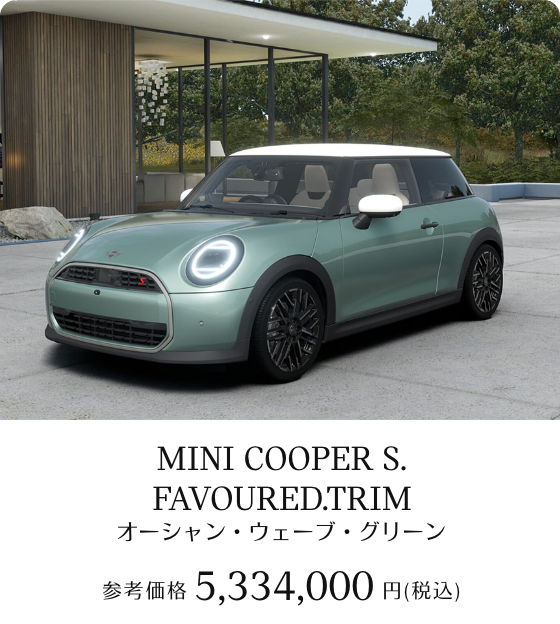
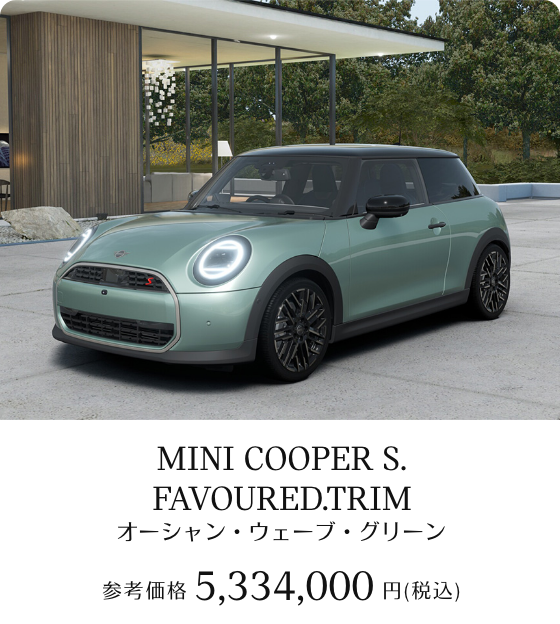
no message

Changed region(s): [[0.0, 0.0, 1.0, 0.6394]]

diff --git a/260527MINI/static/css/style.css b/260527MINI/static/css/style.css
@@ -497,16 +497,19 @@ video {
 .bg-fix .present {
   position: absolute;
   top: 0;
+  left: 0;
+  width: 100%;
   z-index: 2;
 }
 
 .bg-fix .area {
+  position: relative;
   max-width: 500px;
   margin: auto;
   padding: 50px;
   background-color: #fff;
   text-align: center;
-  position: relative;
+  z-index: 5;
 }
 .bg-fix .area .img01{
   max-width: 400px;
@@ -518,15 +521,18 @@ video {
   margin-bottom: 20px;
 }
 .bg-fix .area .tit{
-  position: absolute;
-  top: 90px;
-  left: 50%;
-  transform: translateX(-50%);
+  position: relative;
+  top: auto;
+  left: auto;
+  transform: none;
+
+  margin-bottom: 30px;
 }
 .bg-fix .area .txt{
   font-size: 14px;
   line-height: 1.8;
-  margin: 35% auto 30px;
+  margin-bottom: 30px;
+
 }
 .bg-fix .area .mini{
   margin-bottom: 30px;

diff --git a/260527MINI/index.html b/260527MINI/index.html
@@ -91,7 +91,7 @@ height="0" width="0" style="display:none;visibility:hidden"></iframe></noscript>
             </a>
           </div>
           <div class="image">
-            <a href="https://www.mini.jp/ja-jp/sl/vehiclefinder/details/019c9e22-37f7-73ea-94ec-c7c7fa4c986b?buno=40053&filters=%257B%2522MARKETING_SERIES%2522%253A%255B%2522MINI%2520JOHN%2520COOPER%2520WORKS%2522%255D%252C%2522MARKETING_MODEL_RANGE%2522%253A%255B%2522MINI_32GD%2522%255D%252C%2522ENGINE%2522%253A%255B%2522COOPERS%2522%252C%2522JCW%2522%255D%252C%2522UPHOLSTERY_COLOR%2522%253A%255B%2522BLACK%2522%255D%252C%2522IS_INSTALLMENT%2522%253Afalse%257D&sorting=PRODUCTION_DATE_ASC&modelCode=AJ0A&paint=P0C6P&fabric=FTDJ3&modelRangeCode=F66&options=S01DX%2CS03A3%2CS05A4%2CS0ZF6%2CS05DN%2CS06NX%2CS07ED%2CS05AC%2CS0876%2CS08KL%2CS0430%2CS0431%2CS0992%2CS07KQ%2CS09T9%2CS02VC%2CS08R9%2CS04VF%2CS0302%2CS04NR%2CS0548%2CS04FN%2CS0420%2CS0223%2CS0807%2CS0852%2CS01KP%2CS0459%2CS06AD%2CS06AE%2CS07CG%2CS06AF%2CS0ZU6%2CS0494%2CS0451%2CS01CB%2CS06UQ%2CS0212%2CS04AA%2CS02XK%2CS05AS%2CS06PA%2CS05AT%2CS08TF%2CS08SX%2CS02TC%2CS0248%2CS0688%2CS0449%2CS0845%2CS0925%2CS0322" target="_blank">
+            <a href="https://www.mini.jp/ja-jp/sl/vehiclefinder/details/019c9e22-23c9-7659-a120-4843841d644d?buno=40053&filters=%257B%2522MARKETING_MODEL_RANGE%2522%253A%255B%2522MINI_32GD%2522%255D%252C%2522IS_INSTALLMENT%2522%253Afalse%257D&sorting=PRODUCTION_DATE_DESC&modelCode=AJ0A&paint=P0C6P&fabric=FTDJ3&modelRangeCode=F66&options=S01DX%2CS05A4%2CS03A7%2CS0ZF6%2CS05DN%2CS06NX%2CS07ED%2CS05AC%2CS0876%2CS08KL%2CS0430%2CS0431%2CS0992%2CS07KQ%2CS09T9%2CS02VC%2CS08R9%2CS04VF%2CS0302%2CS04NR%2CS0548%2CS04FN%2CS0420%2CS0223%2CS0807%2CS0852%2CS01KP%2CS0459%2CS06AD%2CS06AE%2CS0ZU5%2CS07CG%2CS06AF%2CS0494%2CS0451%2CS01CB%2CS06UQ%2CS0212%2CS04AA%2CS02XK%2CS03B5%2CS05AS%2CS06PA%2CS05AT%2CS08TF%2CS08SX%2CS02TC%2CS0248%2CS0688%2CS0402%2CS0449%2CS0845%2CS0925%2CS0322" target="_blank">
               <img src="./static/images/top/card02.png" class="">
               <div class="arrow">
                 <span class="arrow-right"></span>
@@ -220,7 +220,7 @@ height="0" width="0" style="display:none;visibility:hidden"></iframe></noscript>
             </a>
           </div>
           <div class="image">
-            <a href="https://www.mini.jp/ja-jp/sl/vehiclefinder/details/01987412-525d-7909-89a7-14ccbe1a2185?buno=40053&filters=%257B%2522ENGINE%2522%253A%255B%2522COOPERS%2522%255D%252C%2522IS_INSTALLMENT%2522%253Afalse%257D&sorting=PRODUCTION_DATE_ASC&modelCode=AS5B&paint=P0C6M&fabric=FKXB4&modelRangeCode=F66&options=S05A4%2CS01QL%2CS05DN%2CS06NX%2CS07ED%2CS05AC%2CS0876%2CS08KL%2CS0430%2CS0431%2CS0992%2CS02VC%2CS08R9%2CS04VF%2CS04NR%2CS01DK%2CS0548%2CS04FN%2CS0382%2CS0420%2CS0807%2CS0852%2CS09T0%2CS0459%2CS06AD%2CS0ZU4%2CS06AE%2CS07CG%2CS06AF%2CS0494%2CS0451%2CS06UQ%2CS0212%2CS04AA%2CS05AS%2CS06PA%2CS05AT%2CS08TF%2CS08SX%2CS07EP%2CS02XH%2CS02TF%2CS0248%2CS0688%2CS0449%2CS0845%2CS0925%2CS0322" target="_blank">
+            <a href="https://www.mini.jp/ja-jp/sl/vehiclefinder/details/01981d00-028f-7f5c-9400-3a51493586ac?buno=40053&filters=%257B%2522MARKETING_MODEL_RANGE%2522%253A%255B%2522MINI_F66%2522%255D%252C%2522COLOR%2522%253A%255B%2522GREEN%2522%255D%252C%2522ENGINE%2522%253A%255B%2522COOPERS%2522%255D%252C%2522IS_INSTALLMENT%2522%253Afalse%257D&sorting=PRODUCTION_DATE_DESC&modelCode=AS5B&paint=P0C6M&fabric=FKXJ2&modelRangeCode=F66&options=S05A4%2CS01QL%2CS05DN%2CS06NX%2CS07ED%2CS05AC%2CS0876%2CS08KL%2CS0430%2CS0431%2CS0992%2CS02VC%2CS08R9%2CS04VF%2CS04NR%2CS01DK%2CS0548%2CS04FN%2CS0420%2CS0807%2CS0852%2CS09T0%2CS0459%2CS06AD%2CS0ZU4%2CS06AE%2CS07CG%2CS06AF%2CS0494%2CS0451%2CS06UQ%2CS0212%2CS04AA%2CS03B5%2CS05AS%2CS06PA%2CS05AT%2CS08TF%2CS08SX%2CS07EP%2CS02XH%2CS02TF%2CS0248%2CS0688%2CS0449%2CS0845%2CS0925%2CS0322" target="_blank">
               <img src="./static/images/top/card16.png" class="">
               <div class="arrow">
                 <span class="arrow-right"></span>